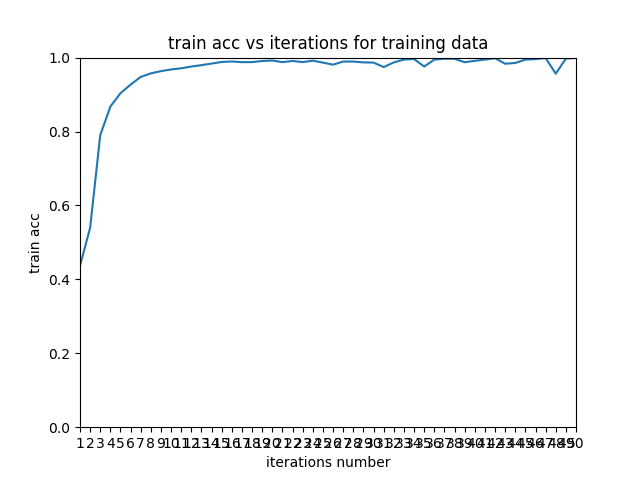
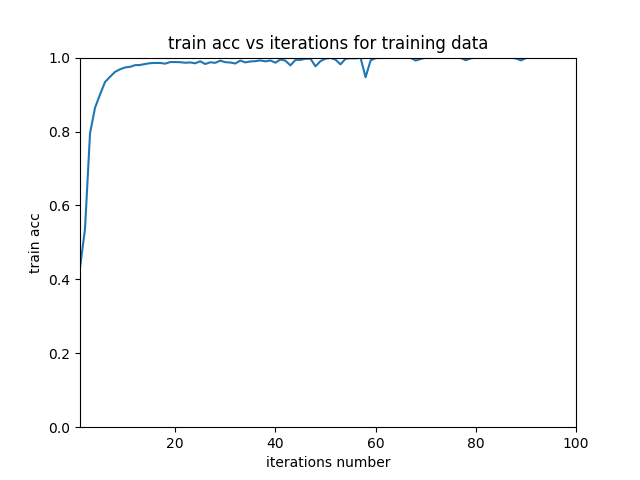
solve net3

diff --git a/plot.py b/plot.py
@@ -22,7 +22,7 @@ def print_graph(loss_log):
     plt.title('loss vs iterations for training data')
     plt.ylim([0,2])
     plt.xlim([1,len(loss_log)])
-    plt.xticks(x)
+#    plt.xticks(x)
     plt.plot(x, y)
     plt.savefig('loss.png')
     plt.figure(2)
@@ -31,7 +31,7 @@ def print_graph(loss_log):
     plt.title('train acc vs iterations for training data')
     plt.ylim([0,1])
     plt.xlim([1,len(loss_log)])
-    plt.xticks(x)
+#    plt.xticks(x)
     plt.plot(x, y1)
     plt.savefig('train_acc.png')
     plt.figure(3)
@@ -40,7 +40,7 @@ def print_graph(loss_log):
     plt.title('test acc vs iterations for test data')
     plt.ylim([0,1])
     plt.xlim([1,len(loss_log)])
-    plt.xticks(x)
+#    plt.xticks(x)
     plt.plot(x, y2)
     plt.savefig('test_acc.png')
     plt.figure(4)
@@ -49,6 +49,6 @@ def print_graph(loss_log):
     plt.title('test loss vs iterations for test data')
     plt.ylim([0,2])
     plt.xlim([1,len(loss_log)])
-    plt.xticks(x)
+#    plt.xticks(x)
     plt.plot(x, y3)
     plt.savefig('test_loss.png')

diff --git a/models/ThreeLayers.py b/models/ThreeLayers.py
@@ -35,12 +35,12 @@ class ThreeLayers(object):
                 hiddenL1 = 14
                 repeat = 28
                 self.B.append(np.zeros((1,hiddenL1)))
-                self.W.append(np.random.rand(input_dim, hiddenL1)*0.1)
+                self.W.append((1*np.random.rand(input_dim, hiddenL1)-1)*0.4)
                 for i in xrange(repeat-1):
                     self.B.append(np.zeros((1,hiddenL1)))
-                    self.W.append(np.random.rand(hiddenL1, hiddenL1)*0.1)
+                    self.W.append((2*np.random.rand(hiddenL1, hiddenL1)-1)*0.4)
                 self.B.append(np.zeros((1,num_output)))
-                self.W.append(np.random.rand(hiddenL1, num_output)*0.1)
+                self.W.append((2*np.random.rand(hiddenL1, num_output)-1)*0.4)
     
     def load(self, w, b):
         if self.case == 1:

diff --git a/func.py b/func.py
@@ -48,8 +48,8 @@ def backward_relu(out, cache):
 
 def cross_entropy(x, y):
     x= x.astype(np.float32)
-    probs = np.exp(x)
-    #probs = np.exp(x - np.max(x, axis=1, keepdims=True))
+    #probs = np.exp(x)
+    probs = np.exp(x - np.max(x, axis=1, keepdims=True))
     probs /= np.sum(probs, axis=1, keepdims=True)
     N = x.shape[0]
     logprobs = []

diff --git a/main.py b/main.py
@@ -60,7 +60,7 @@ def loadwb(wpath, bpath):
 def q2_123(data):
     case = int(sys.argv[1])
     model = three.ThreeLayers(case)
-    exp = Experiment(model, data, 50, 1)
+    exp = Experiment(model, data, 100, 1)
     exp.train()
     print_graph(exp.loss_log)
 
